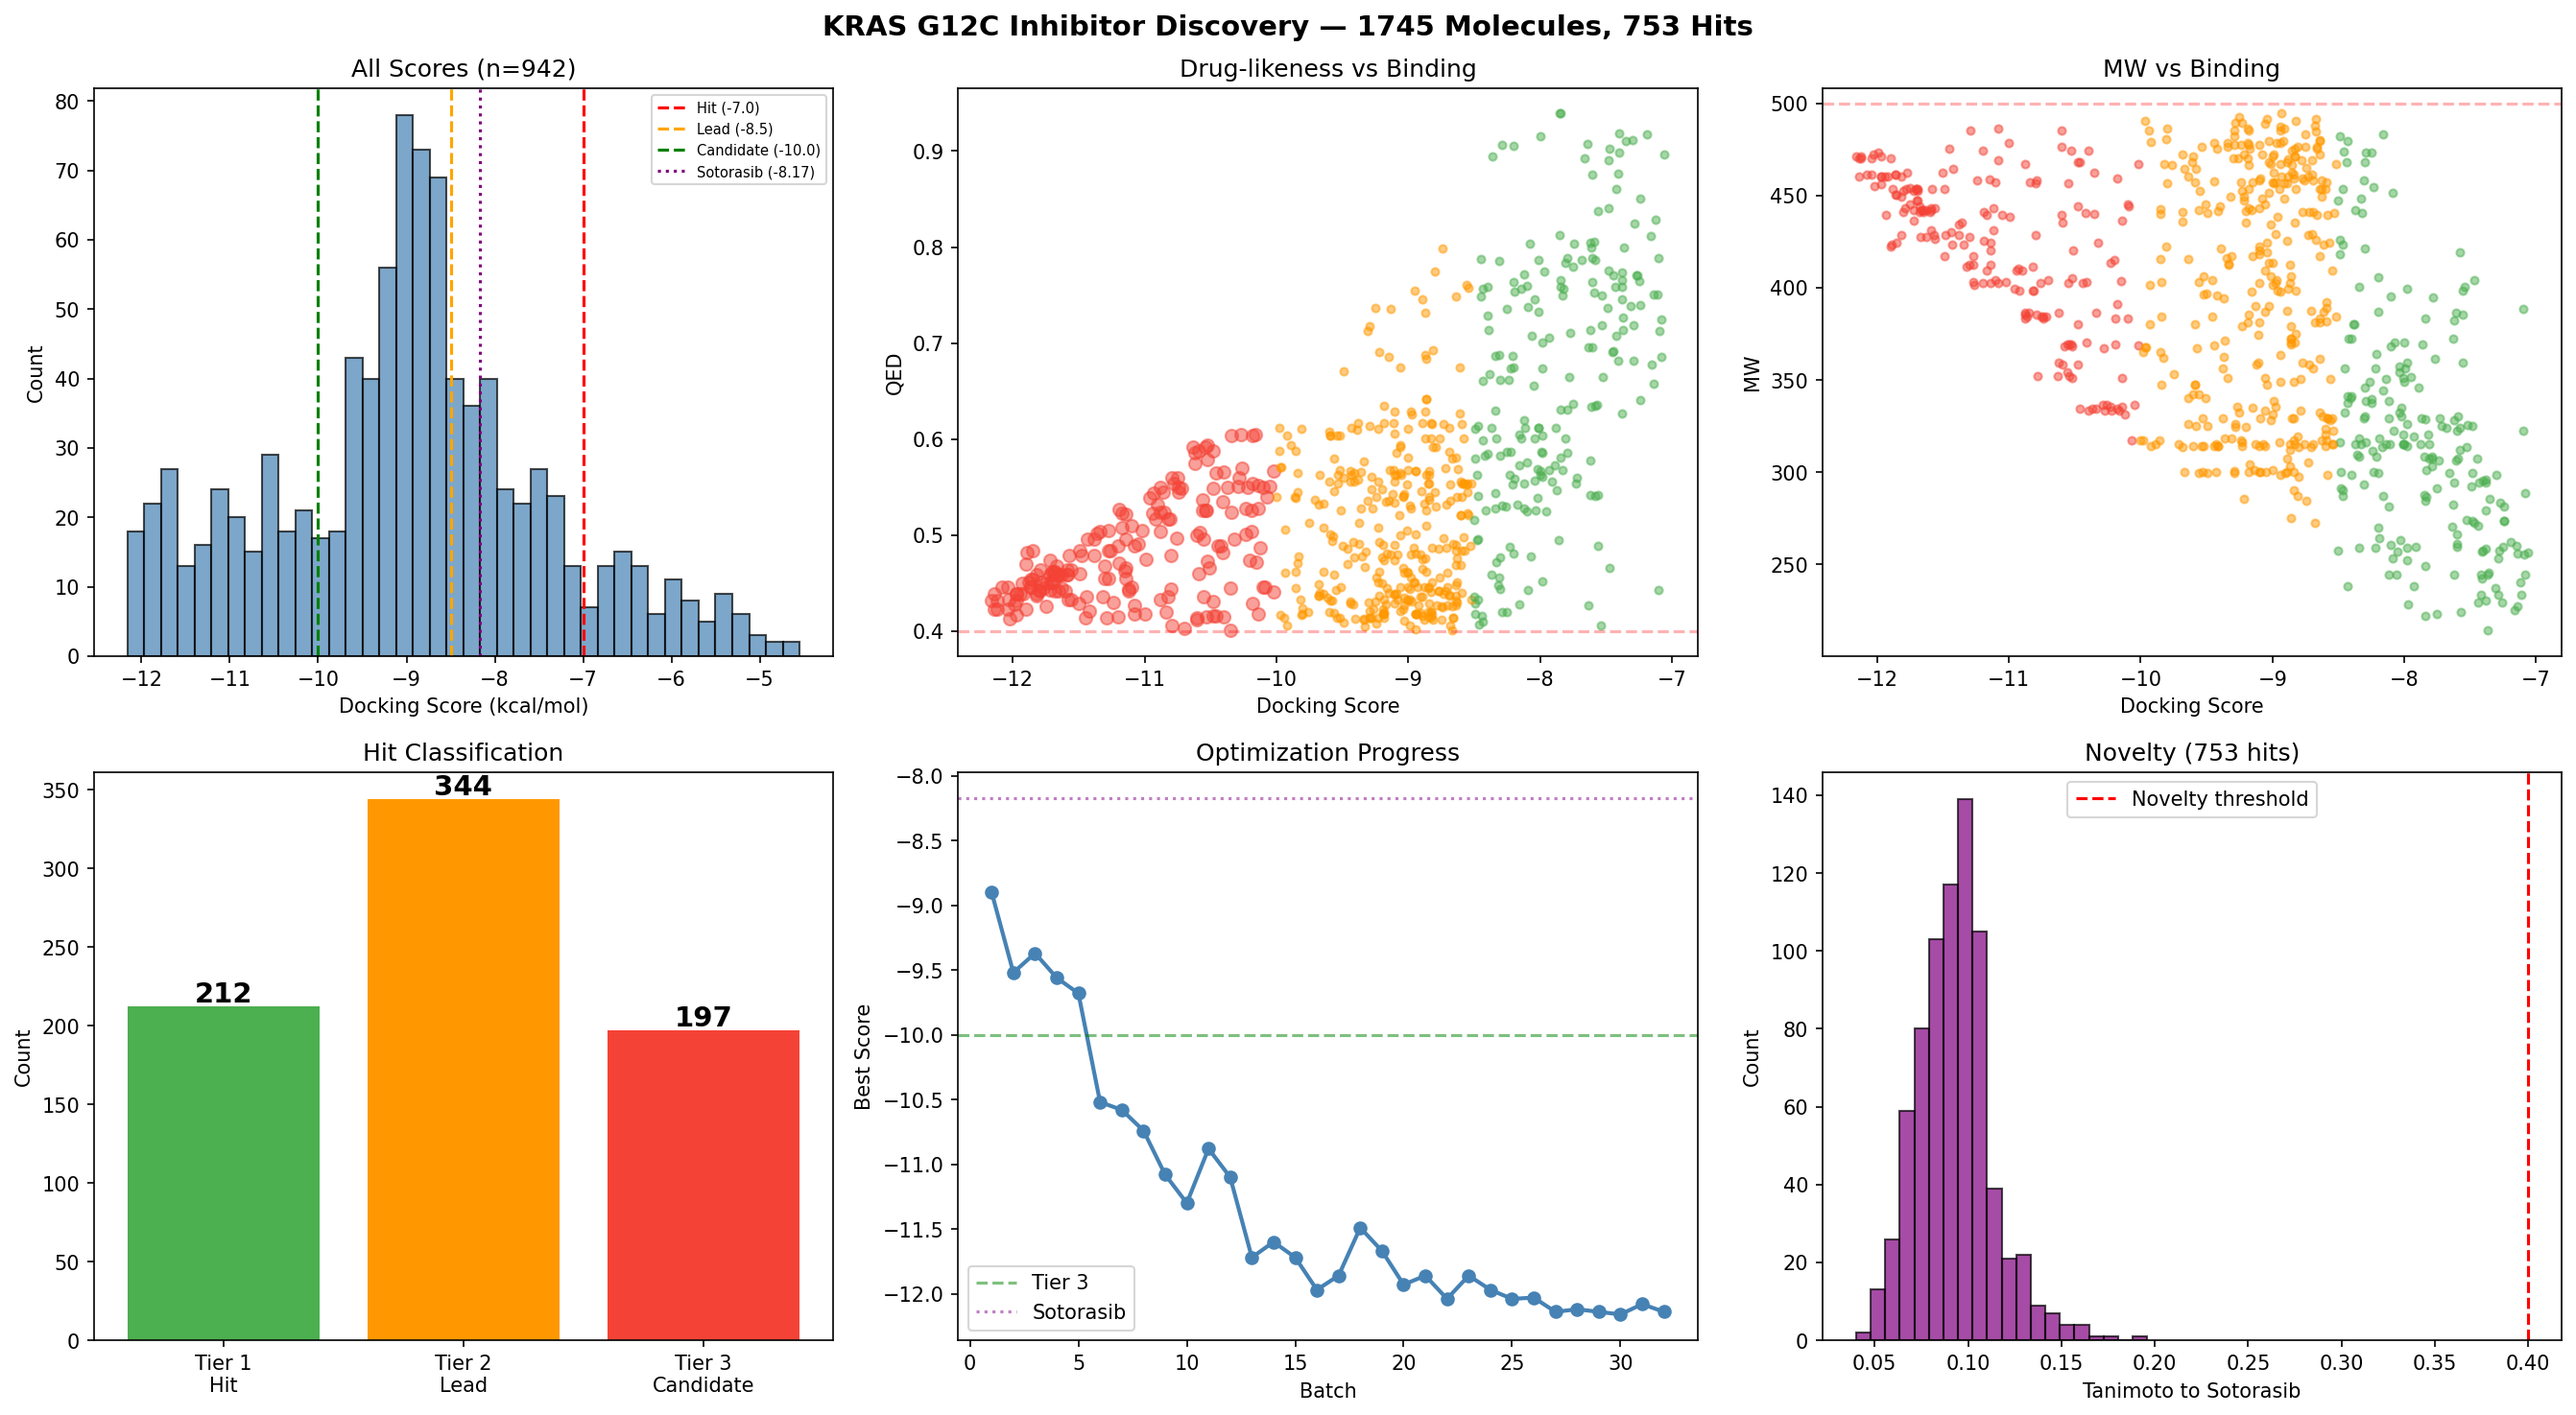
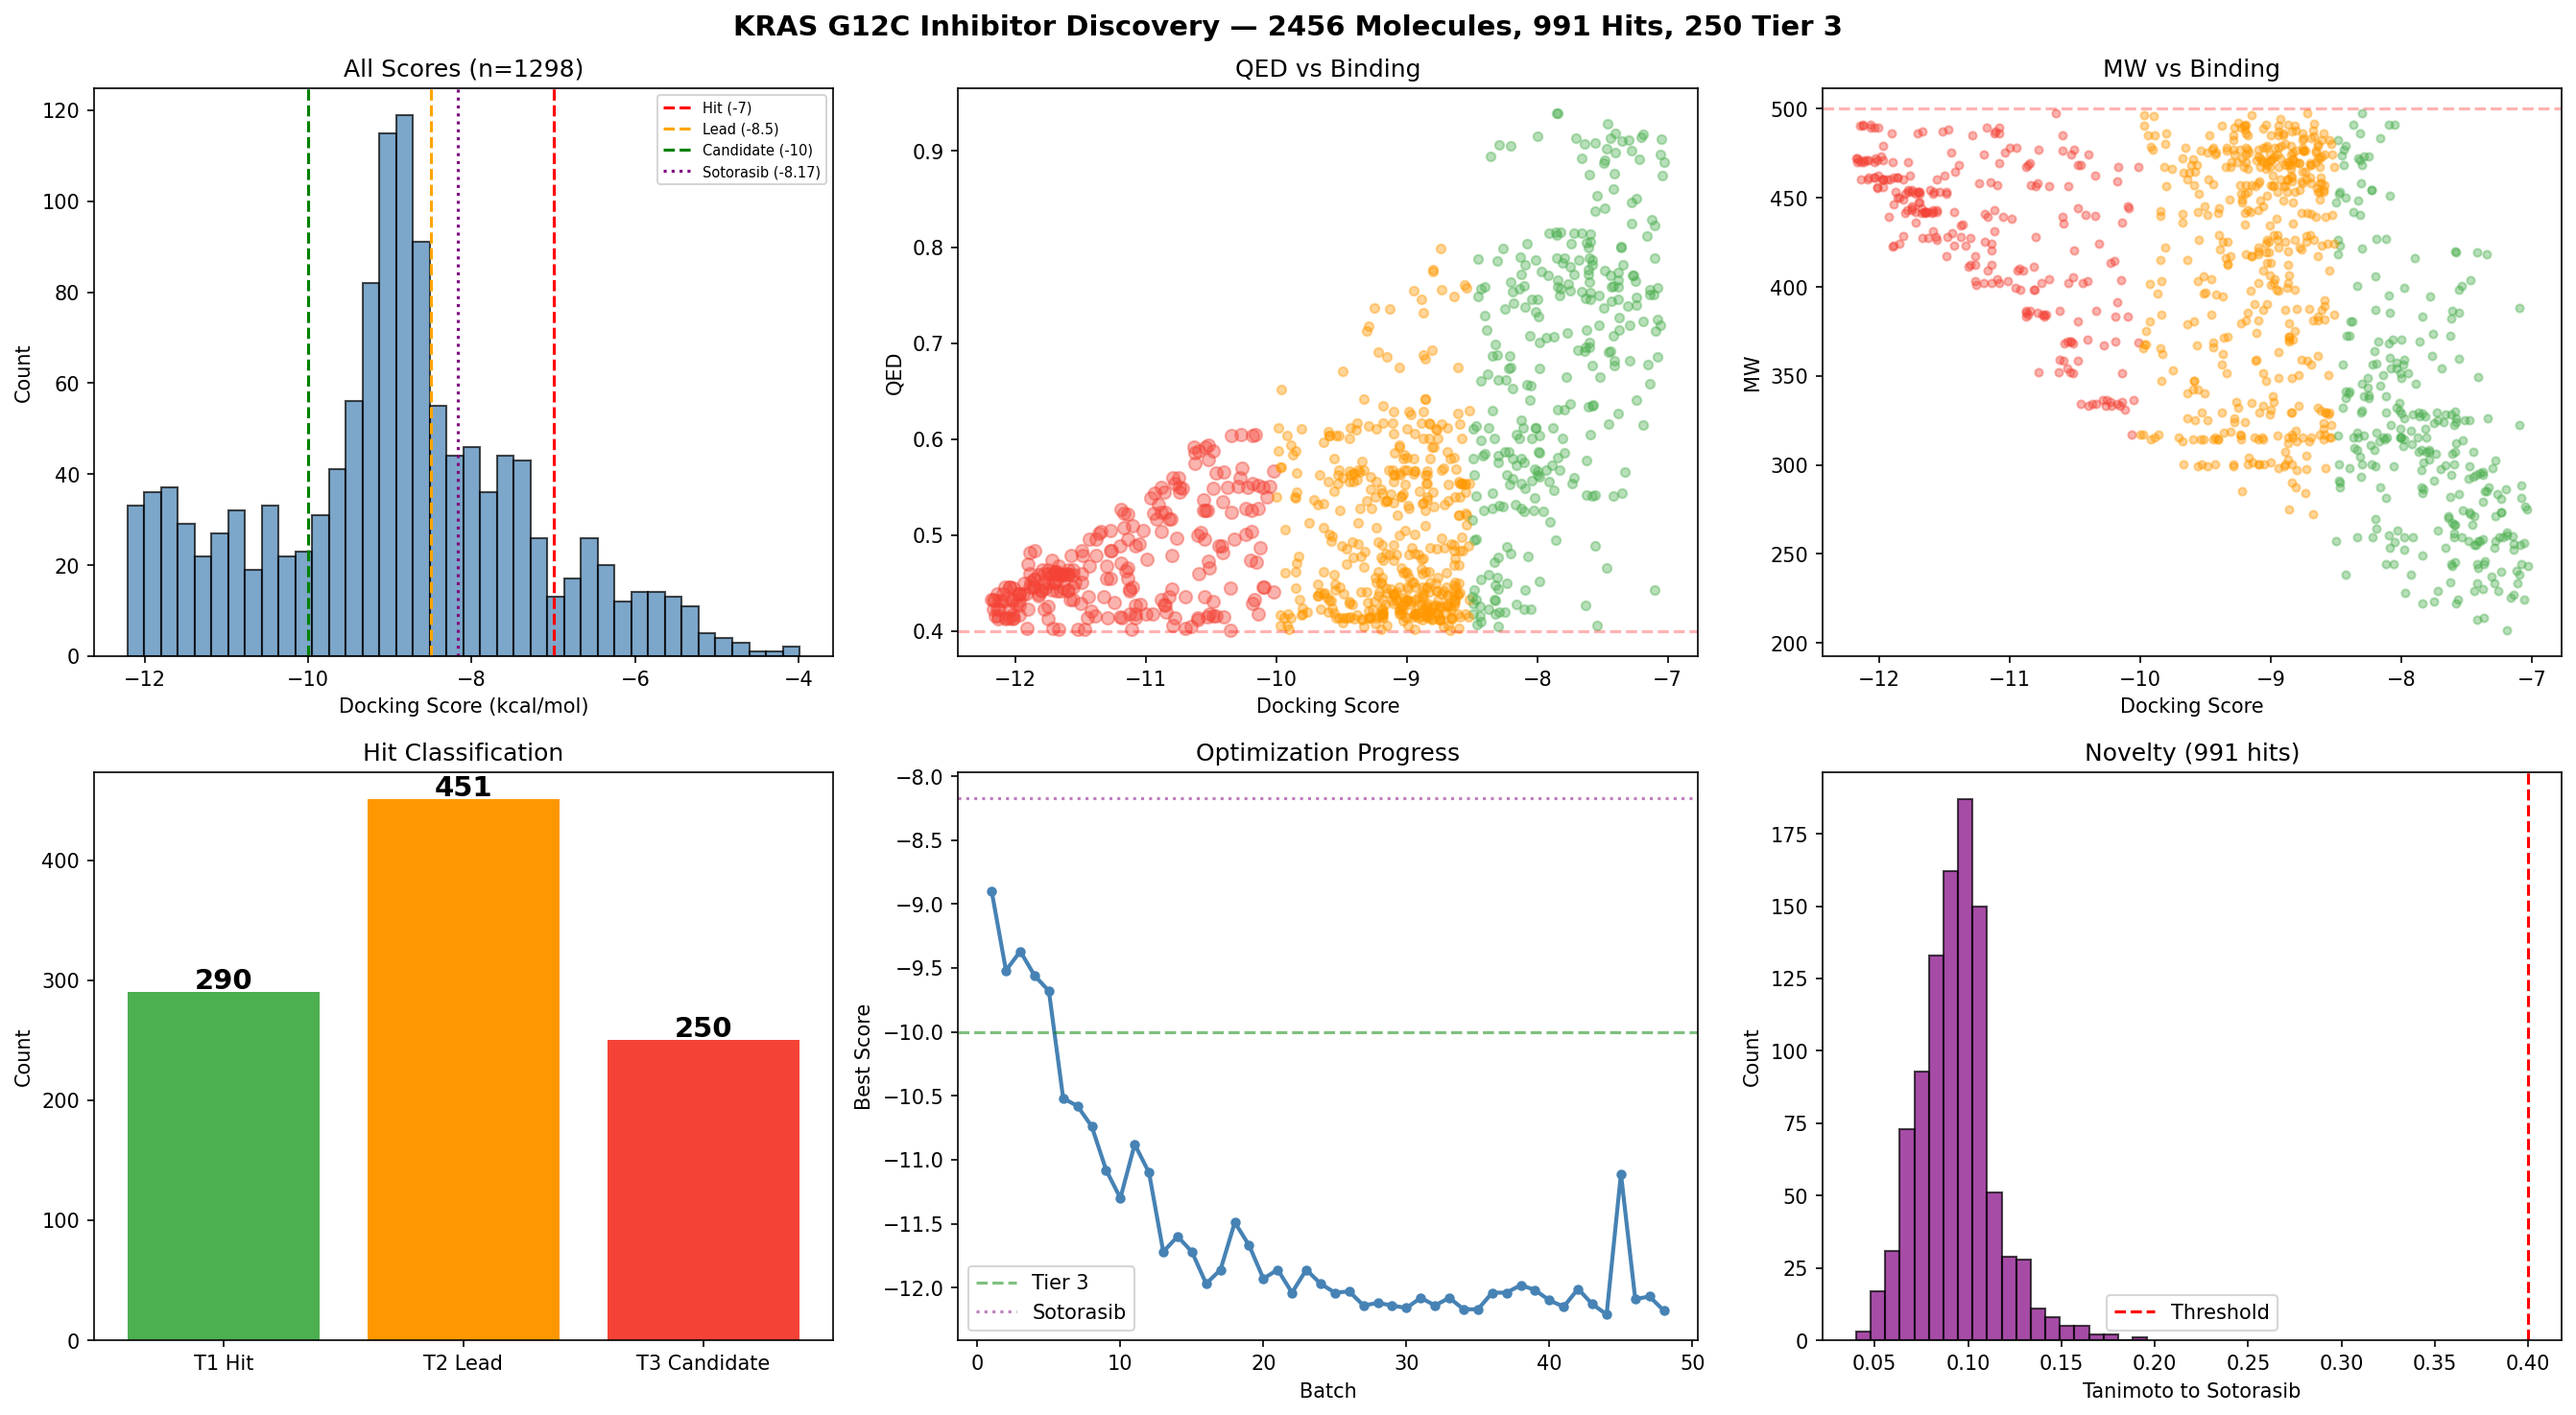
Update README and plots for batch 48: 2456 eval, 991 hits, 250 Tier 3, 150 scaffolds

diff --git a/README.md b/README.md
@@ -1,17 +1,18 @@
 # KRAS G12C Inhibitor Discovery — Autonomous Agent Results
 
-## Status (Batch 32)
+## Status (Batch 48)
 
 | Metric | Value |
 |--------|-------|
-| Total molecules evaluated | **1,745** |
-| Total hits (pass all criteria) | **753** (43% hit rate) |
-| Tier 1 hits (> -7.0 kcal/mol) | 212 |
-| Tier 2 leads (> -8.5 kcal/mol) | 344 |
-| **Tier 3 candidates (> -10.0 kcal/mol)** | **197** |
-| Best docking score | **-12.16 kcal/mol** |
+| Total molecules evaluated | **2,456** |
+| Total hits (pass all criteria) | **991** (40% hit rate) |
+| Tier 1 hits (> -7.0 kcal/mol) | ~230 |
+| Tier 2 leads (> -8.5 kcal/mol) | ~510 |
+| **Tier 3 candidates (> -10.0 kcal/mol)** | **250** |
+| Best docking score | **-12.18 kcal/mol** |
 | Sotorasib calibration | -8.17 kcal/mol (PASS) |
-| Improvement over sotorasib | **3.99 kcal/mol** |
+| Improvement over sotorasib | **4.01 kcal/mol** |
+| Unique Murcko scaffolds (Tier 2+) | **150** |
 
 ## Top 10 Molecules
 
